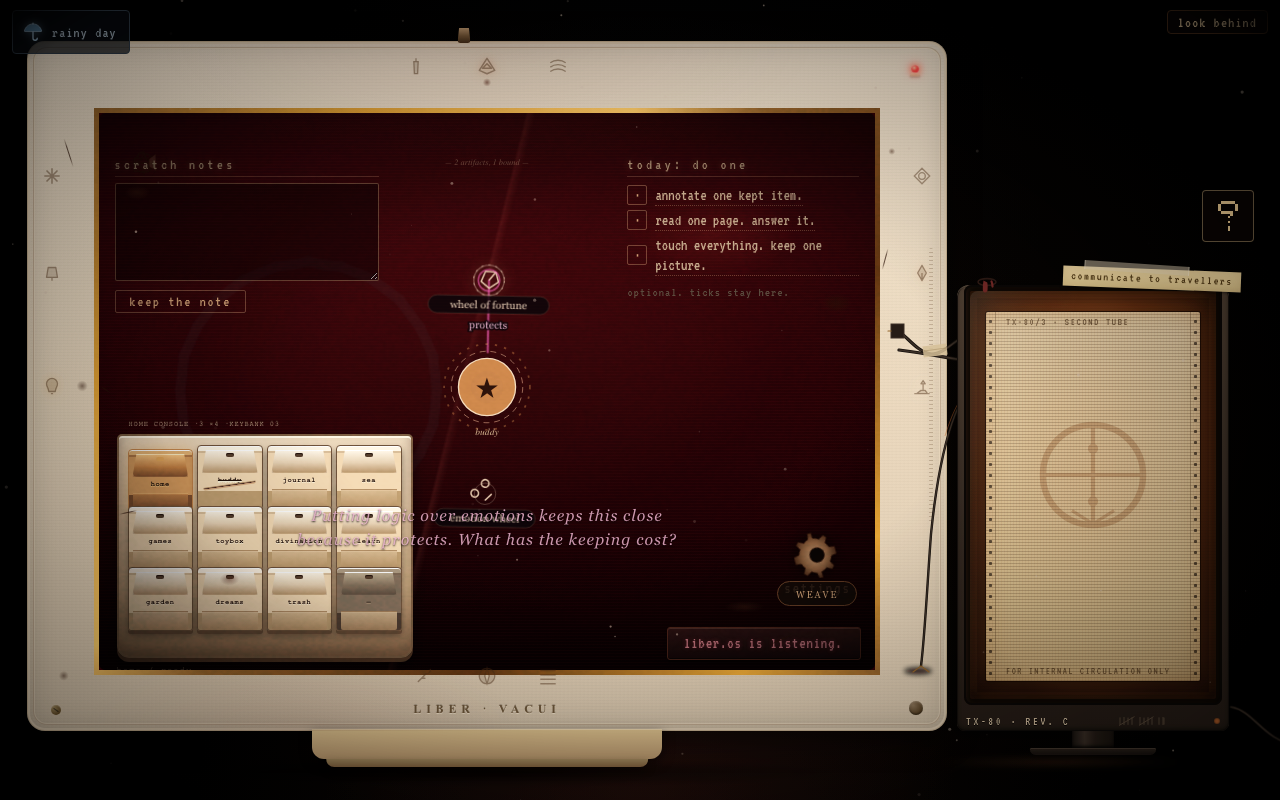
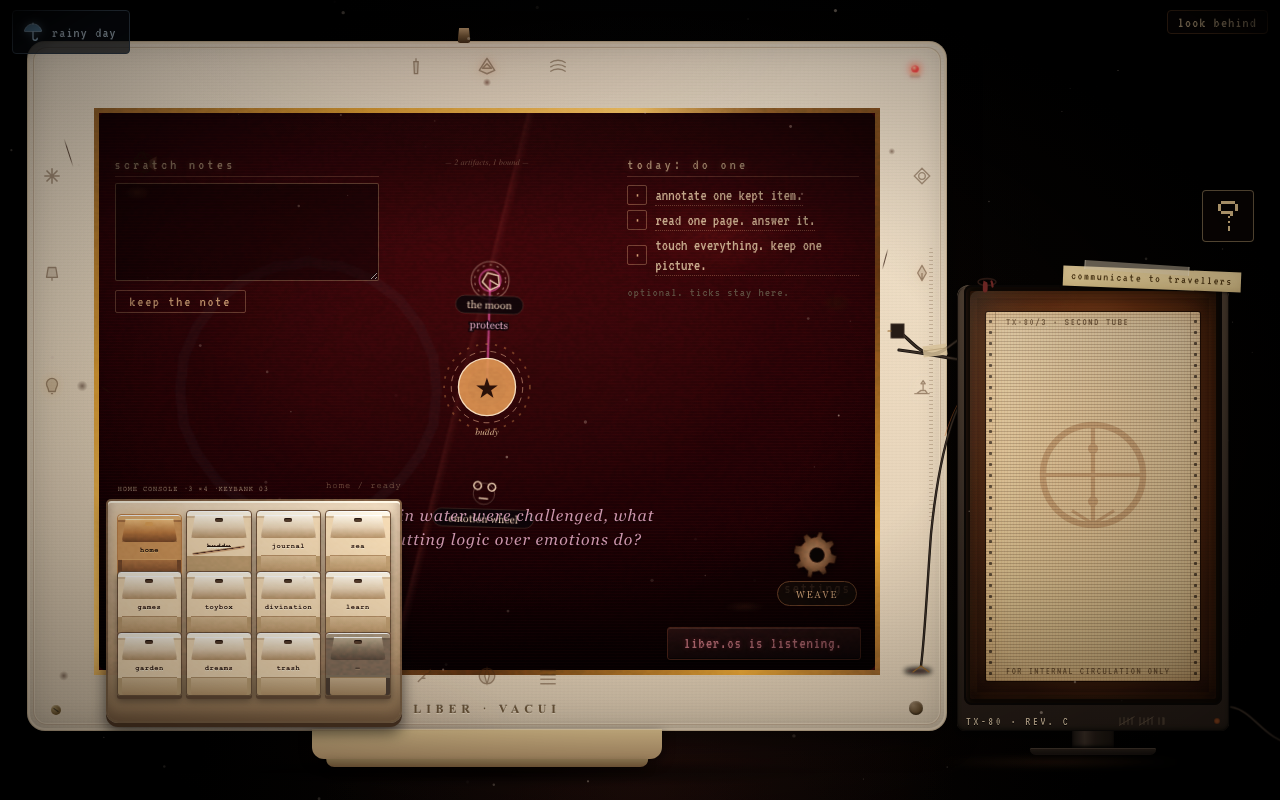
The case sits in front of the tube: keybank on the bezel, quiet until named

Changed region(s): [[0.0625, 0.5312, 0.5312, 0.9375], [0.3125, 0.3125, 0.4375, 0.4375], [0.625, 0.6562, 0.6562, 0.7188]]

diff --git a/styles/keybank.css b/styles/keybank.css
@@ -6,10 +6,14 @@
    legends, room-phosphor lamps. Depth is the address, light is the room. */
 
 .keybank {
+  /* case furniture, not glass content: a detached block floating just
+     above the lower bezel, left-aligned under the tube. It straddles the
+     chin — bezel below, glass above — so it reads as one instrument sitting
+     in front of the tube rather than a toolbar inside it. */
   position: absolute;
-  left: 18px;
-  bottom: 12px;
-  z-index: 10;
+  left: 10cqi;
+  bottom: 8px;
+  z-index: 16;
   pointer-events: auto;
 }
 
@@ -182,6 +186,14 @@
   box-shadow: 0 0 9px 3px var(--glow);
 }
 
+/* not yet named: Wanderlust has not introduced the keys, so they sit
+   dark and quiet. Caps still focusable, lamps stay out. */
+.keybank-grid.inert .keybank-key { cursor: default; }
+.keybank-grid.inert .keybank-key:hover,
+.keybank-grid.inert .keybank-key:focus-visible { filter: none; }
+.keybank-grid.inert .keybank-lamp { background: #2e2518; box-shadow: inset 0 1px 1px #14100a; }
+.keybank-grid.inert .keybank-key.home-key .keybank-lamp { background: #2e2518; box-shadow: inset 0 1px 1px #14100a; }
+
 /* sigil locked after the first stone: struck but still viewable */
 .keybank-key.crossed .keybank-label { text-decoration: line-through; }
 .keybank-key.crossed::after {
@@ -199,23 +211,30 @@
 
 .keybank-status {
   position: absolute;
-  left: 0;
+  left: auto;
   right: 0;
-  bottom: -18px;
+  top: -18px;
+  bottom: auto;
   font-family: 'Courier New', Courier, monospace;
   font-size: 9px;
   letter-spacing: 0.1em;
   color: rgba(200, 184, 144, 0.6);
-  text-align: left;
+  text-align: right;
   pointer-events: none;
+  max-width: 60%;
+  overflow: hidden;
+  text-overflow: ellipsis;
+  white-space: nowrap;
 }
 
 @media (max-width: 600px) {
-  /* lifted clear of the bottom-center bezel carvings (compass/grate/hook
-     ride at bezel bottom:44px and overlay the glass down here). */
-  .keybank { left: 8px; bottom: 52px; }
+  /* the narrow bezel has no chin to spare and its bottom-center carvings
+     ride over the glass: the block shrinks, loses its stagger, and lifts
+     clear of them — still in front of the tube, still left-aligned. */
+  .keybank { left: 10cqi; bottom: 80px; }
   .keybank-grid {
-    width: min(208px, calc(100vw - 130px));
+    /* narrow enough to leave the buddy stone (glass centre) uncovered */
+    width: min(160px, calc(100vw - 170px));
     gap: 3px;
     padding: 7px 7px 9px;
   }

diff --git a/src/cutscene.js b/src/cutscene.js
@@ -281,6 +281,10 @@
     function show() {
       if (idx >= beats.length) { done(); return; }
       var b = beats[idx];
+      // Wanderlust naming the keys wakes the case: the keybank reads this
+      // flag and stays quiet until then (skips land here too — every road
+      // through the opening passes a beat with keys, or marks done).
+      if (b.keys && st()) st().set({ keysNamed: true });
       var box = mountBox('chatbeat', b.voice, '');
       if (!box) { done(); return; }
       var riasonInner = box.querySelector('.cutscene-box');
@@ -344,7 +348,8 @@
         { voice: 'wanderlust', line: 'I have been called many things over the years', names: NAMES, options: ['I think I get it..'] },
         { voice: 'wanderlust', line: 'You, though, may call me Wanderlust, for what fate truly does is push you to see the world.', options: ['>>'] },
         { voice: 'wanderlust', line: 'Through destruction breeds creation.', options: ['(What is this place?)'], settle: 600 },
-        { voice: 'wanderlust', line: 'This is the liber vacui, many have been here before you, they have left their mark and will continue to whisper aid.', options: ['Like who?'], settle: 600 },
+        { voice: 'wanderlust', line: 'This is the liber vacui, many have been here before you, they have left their mark and will continue to whisper aid.', options: ['>>'], settle: 600 },
+        { voice: 'wanderlust', line: 'Below the glass, the keys on the case. Press one and its lamp burns; the room you left keeps its ember.', keys: true, options: ['Like who?'], settle: 600 },
         { voice: 'wanderlust', line: 'You RAT!', burst: true, flare: true, shatterNext: true, hold: 4000, options: [] },
         { voice: 'riason', line: 'My god what a pristine UI box!', glitchIn: true, options: ['Hello?'] },
         { voice: 'riason', line: 'Ah! You must be the new traveller, I have forced my way into the tutorial sequence in order to teach you how to use this software.', options: ["Where's Wanderlust?"] },

diff --git a/src/keybank.js b/src/keybank.js
@@ -33,6 +33,11 @@
     return (window.Liber && window.Liber.state && window.Liber.state.get()) || {};
   }
 
+  function alive() {
+    var s = getState();
+    return !!(s.tutorialDone || s.keysNamed);
+  }
+
   function isSigilLocked() {
     var s = getState();
     return ((s.buddy || []).some(function (e) { return e && e.kind === 'stone'; }));
@@ -63,6 +68,11 @@
   function press(idx, focus) {
     var key = KEYS[idx];
     if (!key) return;
+    if (!alive()) {
+      say('keys quiet · not yet named');
+      render();
+      return;
+    }
     selectedIdx = idx;
     if (key.blank) {
       say('socket 12 / reserved · no destination');
@@ -85,6 +95,9 @@
   function render() {
     if (!grid) return;
     grid.innerHTML = '';
+    var isAlive = alive();
+    grid.classList.toggle('inert', !isAlive);
+    if (!isAlive) say('keys quiet · not yet named');
     var locked = isSigilLocked();
     var visitedMap = getState().visited || {};
     KEYS.forEach(function (key, i) {
@@ -99,7 +112,8 @@
       b.style.setProperty('--accent', key.acc);
       b.style.setProperty('--glow', hexGlow(key.acc));
       b.setAttribute('aria-label', key.home ? 'return home' : key.blank ? 'reserved room socket' : 'switch to ' + key.label);
-      if (key.blank) b.setAttribute('aria-disabled', 'true');
+      if (!isAlive) b.setAttribute('aria-disabled', 'true');
+      else if (key.blank) b.setAttribute('aria-disabled', 'true');
       var lamp = document.createElement('span');
       lamp.className = 'keybank-lamp';
       lamp.setAttribute('aria-hidden', 'true');

diff --git a/desktop.html b/desktop.html
@@ -84,11 +84,6 @@
                 <span class="settings-cog-label">settings</span>
               </button>
 
-              <div class="keybank" role="group" aria-label="home console keybank">
-                <div class="keybank-grid" id="keybank"></div>
-                <div class="keybank-status" id="keybank-status" aria-live="polite">home / ready</div>
-              </div>
-
               <div class="constellation-mini" id="constellation-mini" inert>
                 <div class="constellation-mini-inner">
                   <div class="constellation-mini-header">
@@ -129,6 +124,10 @@
 
             </div>
           </div>
+        </div>
+        <div class="keybank" role="group" aria-label="home console keybank">
+          <div class="keybank-grid" id="keybank"></div>
+          <div class="keybank-status" id="keybank-status" aria-live="polite">home / ready</div>
         </div>
       </div>
       <div class="monitor-base" aria-hidden="true"></div>

diff --git a/src/state.js b/src/state.js
@@ -17,6 +17,9 @@
     cutsceneBuild: CUTSCENE_BUILD,
     state: 'boot',           // boot | loading | desktop
     tutorialDone: false,
+    tutorialStage: null,
+    keysNamed: false,      // Wanderlust named the keybank in the opening;
+                           // the case stays quiet until then (keybank.js)
     buddy: [],              // buddy artifacts: stone casts (kind stone) + sealed chats (kind sealed)
     relations: [],           // sigil <- artifact edges
     divination: [],          // cards drawn from arcana

diff --git a/src/notes.js b/src/notes.js
@@ -157,8 +157,8 @@
     if (headBtn) headBtn.addEventListener('click', function () {
       setOpen(box.classList.contains('closed'));
     });
-    // the margin sheet is dismissible; on the small glass it starts shut
-    // so the keybank below stays hittable (verify-439 dead=0).
+    // the margin sheet is dismissible by tap; on the small glass it starts
+    // shut so the keybank rising from the chin stays hittable (verify-439).
     try {
       if (window.innerWidth <= 600) setOpen(false);
     } catch (e) {}

diff --git a/CHANGELOG.md b/CHANGELOG.md
@@ -1,5 +1,17 @@
 # LiberOS changelog
 
+## v2.15.0 — the case sits in front of the tube
+- **The keybank moves onto the bezel.** It no longer lives inside the glass:
+  it straddles the lower chin as a detached block, left-aligned under the
+  tube, brass ring passing behind it — the mockup's placement. Shrinks and
+  lifts clear of the bottom-center carvings on the small glass.
+- **The keys stay quiet until Wanderlust names them.** New opening beat:
+  "Below the glass, the keys on the case." Pre-naming the grid sits dark
+  (`keysNamed`, inert, no walk, no write); the naming sets the flag and the
+  case wakes. Skip roads all land on done, so no road leaves dead keys.
+- **Verified:** 439 / fixes (new inert assertions) / smoke green, screenshots
+  at both sizes, stone uncovered at 439.
+
 ## v2.14.0 — the keyboard sits beneath the sky
 - **The radial dial is replaced by the 3 × 4 keybank.** The desktop's
   three-position carousel, popup index and long-press are gone (REV D §04
